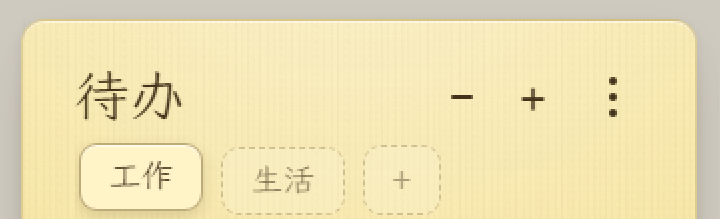
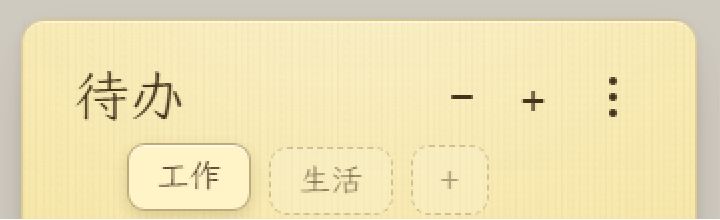
fix: 页头图标与分类切换箭头对齐
三个页头图标统一为 flex 居中与正文字体、最小化线条下移 1px；分类箭头改为内联圆形按钮，不再覆盖标签，去掉会压住首尾标签的渐隐遮罩。

diff --git a/src/styles.css b/src/styles.css
@@ -207,12 +207,15 @@ h1 {
 }
 
 .icon-button {
-  display: grid;
-  place-items: center;
+  display: flex;
+  align-items: center;
+  justify-content: center;
   width: 30px;
   height: 30px;
+  padding: 0;
   color: var(--ink);
-  font-size: 22px;
+  font-family: var(--font-ui);
+  font-size: 21px;
   line-height: 1;
   border-radius: 8px;
   transition: background 120ms ease;
@@ -224,6 +227,7 @@ h1 {
 
 .minimize-button {
   width: 22px;
+  height: 30px;
 }
 
 .minimize-glyph {
@@ -232,6 +236,8 @@ h1 {
   height: 1.6px;
   background: currentColor;
   border-radius: 1px;
+  /* 与 + / ⋮ 的视觉中心对齐 */
+  transform: translateY(1px);
 }
 
 .vertical-dots {
@@ -279,10 +285,15 @@ h1 {
   top: 54px;
   right: 26px;
   left: 26px;
+  display: flex;
+  gap: 6px;
+  align-items: center;
   z-index: 3;
 }
 
 .category-tabs {
+  flex: 1 1 auto;
+  min-width: 0;
   display: flex;
   gap: 9px;
   align-items: flex-end;
@@ -292,18 +303,14 @@ h1 {
   scrollbar-width: none;
 }
 
-.category-tabs-wrap.has-scroll .category-tabs {
-  mask-image: linear-gradient(90deg, transparent 0, #000 14px, #000 calc(100% - 14px), transparent 100%);
-  -webkit-mask-image: linear-gradient(90deg, transparent 0, #000 14px, #000 calc(100% - 14px), transparent 100%);
-}
-
 .tab-scroll {
-  position: absolute;
-  top: 50%;
-  display: grid;
-  place-items: center;
+  flex: 0 0 auto;
+  display: flex;
+  align-items: center;
+  justify-content: center;
   width: 22px;
   height: 22px;
+  padding: 0;
   color: rgba(70, 52, 18, 0.82);
   font-family: var(--font-ui);
   font-size: 14px;
@@ -312,7 +319,6 @@ h1 {
   border: 1px solid rgba(126, 100, 44, 0.28);
   border-radius: 50%;
   box-shadow: 0 3px 7px -3px rgba(74, 56, 18, 0.5);
-  transform: translateY(-28%);
 }
 
 .tab-scroll:hover {
@@ -320,16 +326,8 @@ h1 {
   background: #fffdf2;
 }
 
-.tab-scroll-left {
-  left: -11px;
-}
-
-.tab-scroll-right {
-  right: -11px;
-}
-
 .tab-scroll:active {
-  transform: translateY(-28%) scale(0.94);
+  transform: scale(0.94);
 }
 
 .category-tabs::-webkit-scrollbar {

diff --git a/src/App.vue b/src/App.vue
@@ -600,7 +600,7 @@ import { setErrorReporter } from "./lib/errors.js";
 import { eventText, taskStatus, taskStatusText } from "./lib/labels.js";
 
 // 版本号按 AGENTS.md 在 App.vue 内维护，改应用代码后必须同步时间。
-const versionLabel = "v1.5.0 - 2026-11-03 23:05";
+const versionLabel = "v1.5.0 - 2026-11-03 23:12";
 
 const view = ref("home");
 const menuOpen = ref(false);

diff --git a/design/README.md b/design/README.md
@@ -169,6 +169,7 @@
 | 日期 | 变更 | 影响文件 |
 | --- | --- | --- |
 | 2026-11-03 | 细节校准：去掉纸张外阴影、胶带改为宽幅半透明撕边双面胶、纸张加入纤维纹理、任务勾选框改圆角方块、新增细楷字体（霞鹜文楷 Light）并默认细楷 | `src/styles.css`、`src/components/AppMenu.vue`、`src/composables/useNoteSettings.js` |
+| 2026-11-03 | 对齐修正：三个页头图标统一盒模型与字体、最小化线条下移 1px；分类切换箭头改为内联圆形按钮（不再覆盖标签），标签栏两侧不再有渐隐遮挡 | `src/styles.css` |
 | 2026-11-03 | 页头常驻最小化按钮（细线图标，置于「+」之前），菜单里的「最小化窗口」保留作为兜底 | `src/App.vue`、`src/styles.css` |
 | 2026-11-03 | 分类标签超出时可左右切换（两端圆形箭头 + 边缘渐隐），分类管理支持一次输入多个分类（逗号/顿号/分号/空格分隔） | `src/App.vue`、`src/composables/useCategories.js`、`src/styles.css` |
 | 2026-11-03 | 修复弹框字体：把选中字体类同步挂到 <html>，teleport 到 body 的确认框与提示条也能用主手写字体 | `src/composables/useNoteSettings.js`、`tests/App.spec.js` |
